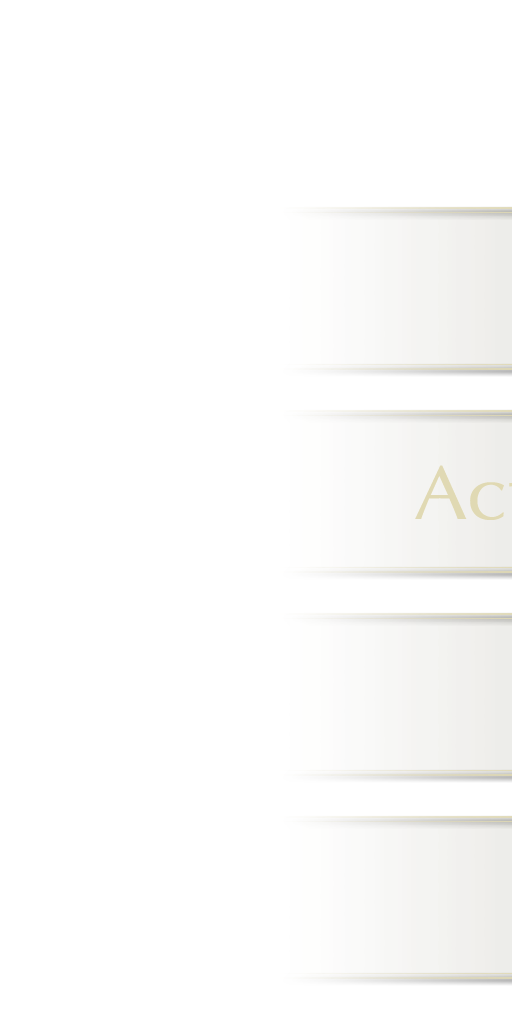
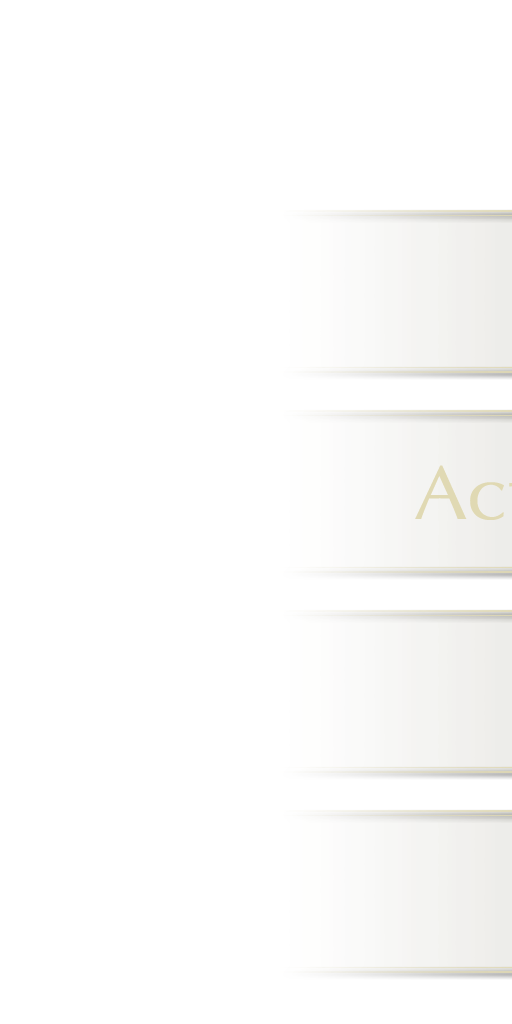
Added Tutorial selection screen highlights with animations.

diff --git a/js/main.js b/js/main.js
@@ -48,6 +48,7 @@ window.onload = function() {
 	loadImage("menuSetupAI", 2);
 	loadImage("menuSetupTimer", 3);
 	loadImage("menuTutorial", 1);
+	loadImage("menuTutorialActive");
 	loadImage("menuOption", 1);
 	loadImage("menuOptionSlider");
 	loadImage("menuCredit", 1);
@@ -431,7 +432,7 @@ function updateAnims(dTime) {
 		if (gameMan.screen == "title") {
 			alpha(100, 1);
 		}
-		else if (gameMan.screen == "popup") {
+		else if (gameMan.screen == "tutorial" || gameMan.screen == "popup") {
 			alpha(250, 0);
 		}
 	}
@@ -654,6 +655,10 @@ function drawContext(context, tv) {
 	case "tutorial":
 		context.drawImage(images["menuTutorial0"], x, y);
 		context.drawImage(images["menuTutorial1"], x+512, y);
+		if (animMan["activeAlpha"] > 0) {
+			context.globalAlpha = animMan["activeAlpha"];
+			context.drawImage(images["menuTutorialActive"], x+335, y+216 + 200*menuMan["tutorial"]);
+		}
 		break;
 	case "option":
 		context.drawImage(images["menuOption0"], x, y);
@@ -973,7 +978,7 @@ function drawHud(canvas, context, tv) {
 		context.fillRect(0, 0, canvas.width, canvas.height);	// TODO do this before if, do fade correctly
 		context.drawImage(images["menuPopup"], x, y, scene.popupWidth, scene.popupHeight);
 
-		if (inputMan.drag == "popup" && animMan["activeAlpha"] >= 0) {
+		if (inputMan.drag == "popup" && animMan["activeAlpha"] > 0) {
 			context.fillStyle = "rgba(224,217,179," + 0.5*animMan["activeAlpha"] + ")";
 			context.fillRect(x + 10*scene.scale, y + (9 + 124 * menuMan["popup"]) * scene.scale, 1004*scene.scale, 122*scene.scale);
 		}

diff --git a/js/input.js b/js/input.js
@@ -179,7 +179,7 @@ function handleHud(down) {
 	if (gameMan.screen == "popup") {
 		if (x > 0 && x < scene.popupWidth && y > 0 && y < scene.popupHeight) {
 			var i = Math.floor(y / (scene.popupHeight/4));
-			if (menuMan["popup"] != i || !animMan["activeAlpha"]) {	// newly clicking within popup
+			if (menuMan["popup"] != i || !animMan["activeAlpha"]) {	// newly selected button
 				menuMan["popup"] = i;
 				animMan["activeAlpha"] = 0;
 				animMan["activeFade"] = 1;
@@ -242,6 +242,22 @@ function handleScreen(scene, x, y) {
 				animMan["screenSlide"] = 1;
 			}
 			return true;
+		}
+	}
+	else if (gameMan.screen == "tutorial") {
+		x -= (scene.width - drawMan.screenWidth)/2;
+		y -= (scene.height - drawMan.screenHeight)/2 + 192;	// offset to top of menu
+		if (x > 285 && x < 1245 && y > 0 && y < 800) {
+			var i = Math.floor(y / 200);
+			if (menuMan["tutorial"] != i || !animMan["activeAlpha"]) {	// newly selected button
+				menuMan["tutorial"] = i;
+				animMan["activeAlpha"] = 0;
+				animMan["activeFade"] = 1;
+				inputMan.drag = "tutorial";
+			}
+			return true;
+		} else {
+			animMan["activeFade"] = -1;
 		}
 	}
 
@@ -435,7 +451,7 @@ function mouseUp(event) {
 				else if (gameMan.screen == "tutorial") {
 					y -= 190;
 					if (x > 285 && x < 1245 && y > 0 && y < 800) {
-						menuTutorial(Math.floor(y / 200));
+						menuTutorial(menuMan["tutorial"]);
 						playSound("ui");
 					}
 				}
